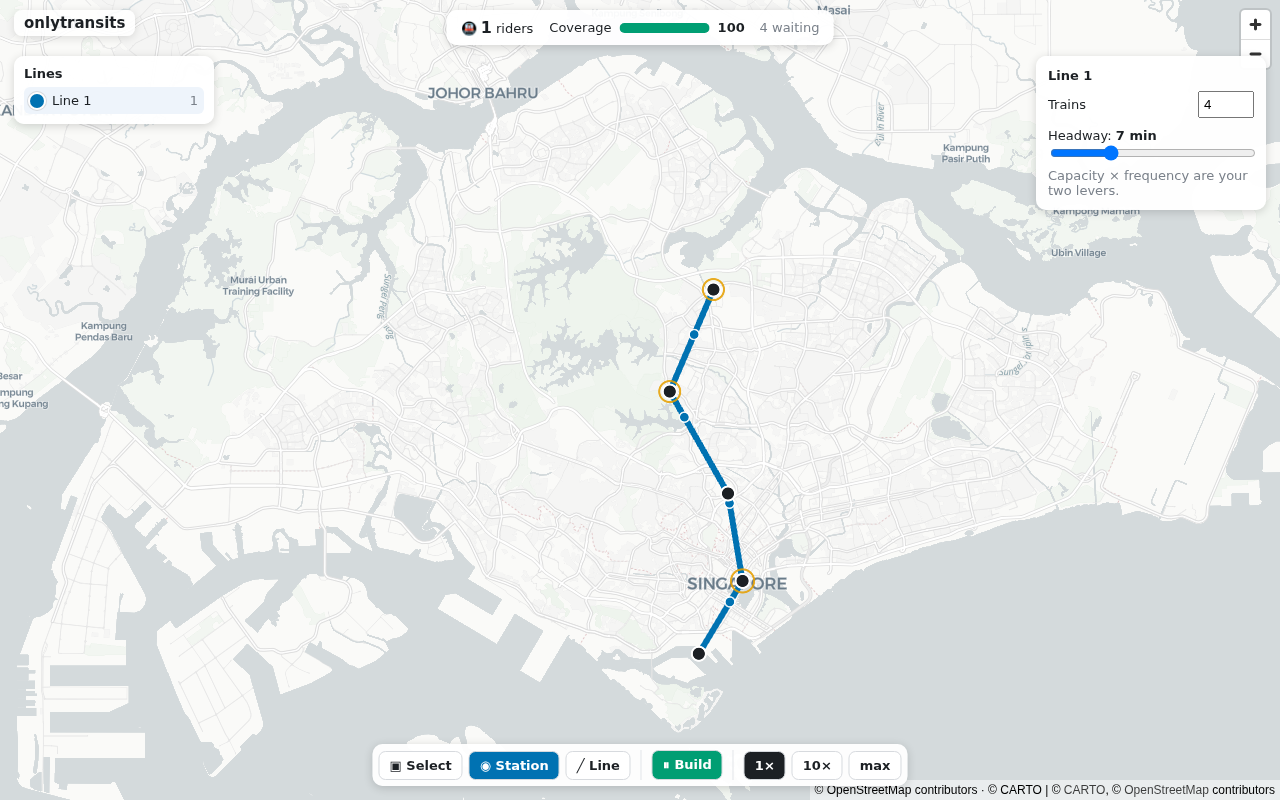
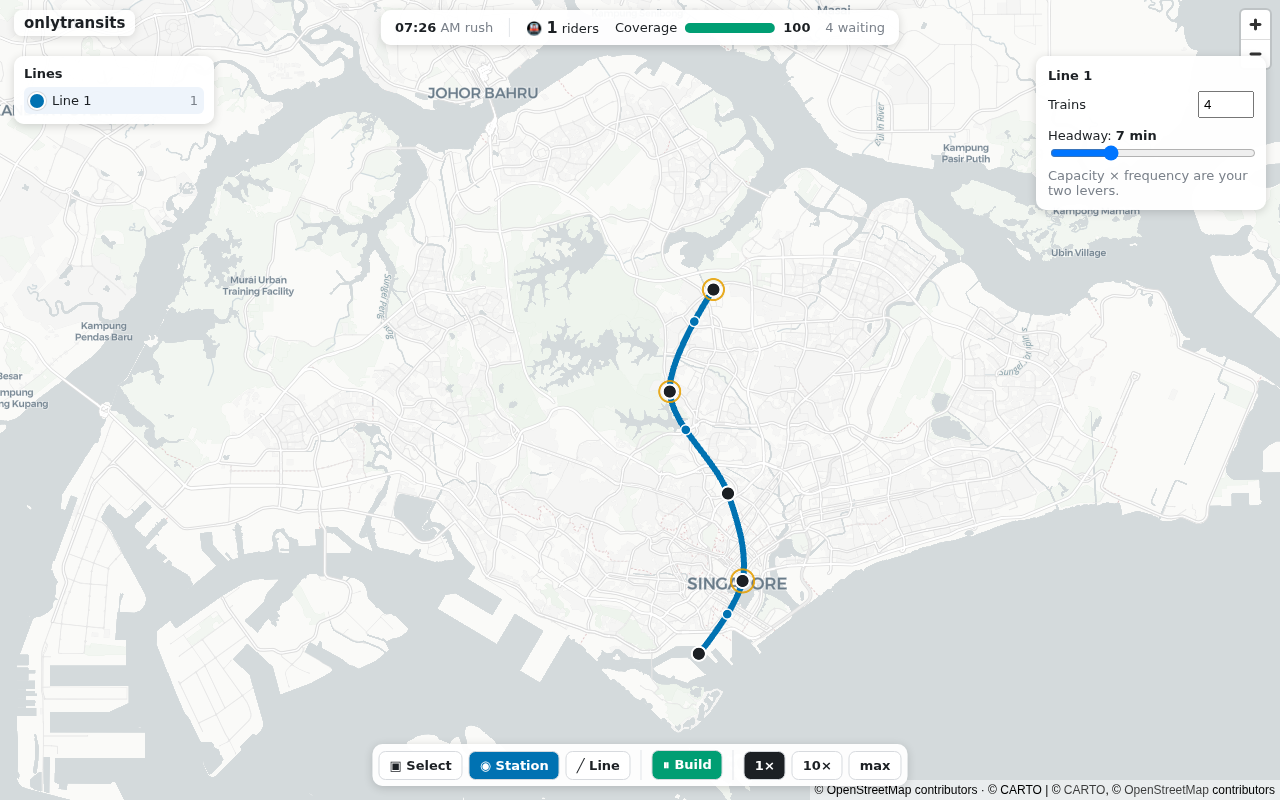
feat(sim): time-of-day demand sim + clock HUD (F2)
- tod.rs: in-game 24h clock (1 sim-min = 1 hour, opens 06:00), twin-peak rush demand
  multiplier (~0.1 night .. ~1.8 peak), and AM(home->work)/PM(work->home) work_bias.
- demand.spawn modulates volume by the multiplier and flips trip origin + destination
  attractiveness by time of day (AM toward jobs, PM toward homes). Deterministic (pure fn of clock).
- stats expose simHour/period/demandMultiplier; statsbar shows a live HH:MM + period.
- tests/tod.rs (rush>offpeak, AM work-bound/PM home-bound, clock wrap). cargo 17/17, vitest 10/10.
- Fixed polyline-length assertions outdated by F1's dense curve.

diff --git a/packages/app/src/ui/statsbar.ts b/packages/app/src/ui/statsbar.ts
@@ -17,6 +17,9 @@ export function mountStatsBar(host: HTMLElement): StatsBar {
     "box-shadow:var(--ot-shadow);z-index:9;font:13px system-ui,sans-serif;color:#1c2024";
 
   bar.innerHTML =
+    `<div><b data-testid="clock" style="font-variant-numeric:tabular-nums">06:00</b> ` +
+    `<span data-testid="period" style="color:#7a818a">AM rush</span></div>` +
+    `<div style="width:1px;align-self:stretch;background:#e2e5e9"></div>` +
     `<div>🚇 <b data-testid="ridership" style="font-size:16px">0</b> riders</div>` +
     `<div style="display:flex;align-items:center;gap:8px">Coverage` +
     `<div style="position:relative;width:90px;height:10px;background:#e7eaee;border-radius:6px;overflow:hidden">` +
@@ -26,6 +29,8 @@ export function mountStatsBar(host: HTMLElement): StatsBar {
 
   host.appendChild(bar);
 
+  const clock = bar.querySelector<HTMLElement>('[data-testid="clock"]')!;
+  const period = bar.querySelector<HTMLElement>('[data-testid="period"]')!;
   const ridership = bar.querySelector<HTMLElement>('[data-testid="ridership"]')!;
   const coverage = bar.querySelector<HTMLElement>('[data-testid="coverage"]')!;
   const coverageBar = bar.querySelector<HTMLElement>('[data-testid="coverage-bar"]')!;
@@ -34,9 +39,19 @@ export function mountStatsBar(host: HTMLElement): StatsBar {
   let lastRidership = -1;
   let lastCoverage = -1;
   let lastWaiting = -1;
+  let lastClock = "";
 
   return {
     update(s: Stats): void {
+      const hh = Math.floor(s.simHour);
+      const mm = Math.floor((s.simHour - hh) * 60);
+      const t = `${String(hh).padStart(2, "0")}:${String(mm).padStart(2, "0")}`;
+      if (t !== lastClock) {
+        clock.textContent = t;
+        period.textContent = s.period;
+        lastClock = t;
+      }
+
       const r = Math.round(s.ridershipTotal);
       if (r !== lastRidership) {
         ridership.textContent = String(r);

diff --git a/packages/app/e2e/build-tools.spec.ts b/packages/app/e2e/build-tools.spec.ts
@@ -22,7 +22,7 @@ test("place stations and draw a line through them", async ({ page }) => {
   const lines = await page.evaluate(() => window.__ot!.bridge.linesView());
   expect(lines).toHaveLength(1);
   expect(lines[0].stops).toEqual([0, 1, 2]);
-  expect(lines[0].polylineMm.length).toBe(3); // geometry rebuilt on AddStop
+  expect(lines[0].polylineMm.length).toBeGreaterThan(3); // dense smoothed curve (F1)
 
   await page.screenshot({ path: "../../docs/progress/cp5-stations-and-line.png" });
 });

diff --git a/packages/app/test/sim.test.ts b/packages/app/test/sim.test.ts
@@ -34,7 +34,8 @@ describe("SimBridge (wasm-in-node)", () => {
     const lines = b.linesView();
     expect(lines).toHaveLength(1);
     expect(lines[0].stops).toEqual([0, 1, 2]);
-    expect(lines[0].polylineMm).toHaveLength(3); // geometry rebuilt on AddStop
+    // Curved track (F1): the polyline is a dense smoothed curve, denser than the 3 stops.
+    expect(lines[0].polylineMm.length).toBeGreaterThan(3);
 
     const stats = b.stats();
     expect(stats.stationCount).toBe(3);

diff --git a/packages/app/src/types.ts b/packages/app/src/types.ts
@@ -46,6 +46,9 @@ export interface Stats {
   leftBehind: number;
   avgLoadFactor: number;
   coverageScore: number;
+  simHour: number;
+  period: string;
+  demandMultiplier: number;
   perStation: PerStation[];
   perLine: PerLine[];
 }

diff --git a/packages/app/src/game.ts b/packages/app/src/game.ts
@@ -22,6 +22,9 @@ const EMPTY_STATS: Stats = {
   leftBehind: 0,
   avgLoadFactor: 0,
   coverageScore: 0,
+  simHour: 6,
+  period: "AM rush",
+  demandMultiplier: 1,
   perStation: [],
   perLine: [],
 };

diff --git a/crates/sim/src/demand.rs b/crates/sim/src/demand.rs
@@ -71,6 +71,11 @@ pub(crate) fn spawn(world: &mut World, dt_ms: i64) {
     if n == 0 {
         return;
     }
+    // Time-of-day modulation: overall volume + AM(home→work)/PM(work→home) directionality.
+    let hour = crate::tod::hour_of_day(world.clock_ms);
+    let mult = crate::tod::demand_multiplier(hour);
+    let bias = crate::tod::work_bias(hour);
+
     let World {
         ref stations,
         ref lines,
@@ -83,8 +88,11 @@ pub(crate) fn spawn(world: &mut World, dt_ms: i64) {
     } = *world;
 
     for s in 0..n {
+        // Trip origins: AM weights residential (captured_origin), PM weights jobs (captured_dest).
         let co = captured_origin.get(s).copied().unwrap_or(0.0);
-        if co <= 0.0 {
+        let cd = captured_dest.get(s).copied().unwrap_or(0.0);
+        let origin_strength = bias * co + (1.0 - bias) * cd;
+        if origin_strength <= 0.0 {
             continue;
         }
         // A line serving this station (has a trainset, >=2 stops).
@@ -95,10 +103,10 @@ pub(crate) fn spawn(world: &mut World, dt_ms: i64) {
             continue;
         };
 
-        spawn_accum[s] += co * DEMAND_RATE_PER_MS * dt_ms as f32;
+        spawn_accum[s] += origin_strength * DEMAND_RATE_PER_MS * mult * dt_ms as f32;
         while spawn_accum[s] >= 1.0 {
             spawn_accum[s] -= 1.0;
-            if let Some(dest) = pick_dest(stations, &lines[li], s, captured_dest, rng) {
+            if let Some(dest) = pick_dest(stations, &lines[li], s, captured_origin, captured_dest, bias, rng) {
                 waiting[s].push_back(dest);
             }
         }
@@ -107,11 +115,14 @@ pub(crate) fn spawn(world: &mut World, dt_ms: i64) {
 
 /// Gravity destination pick: among the other stops on the line, weighted by destination
 /// coverage × distance-decay. Integer weighted draw from a seeded RNG (deterministic).
+#[allow(clippy::too_many_arguments)]
 fn pick_dest(
     stations: &[Station],
     line: &Line,
     origin: usize,
+    captured_origin: &[f32],
     captured_dest: &[f32],
+    bias: f32,
     rng: &mut ChaCha8Rng,
 ) -> Option<StationId> {
     let opos = stations[origin].pos;
@@ -122,9 +133,12 @@ fn pick_dest(
             continue;
         }
         let d = opos.dist_mm(&stations[st.index()].pos).max(1) as f64;
-        let cd = captured_dest.get(st.index()).copied().unwrap_or(0.0) as f64;
+        // AM: pulled toward jobs (captured_dest); PM: toward homes (captured_origin).
+        let cd = captured_dest.get(st.index()).copied().unwrap_or(0.0);
+        let cor = captured_origin.get(st.index()).copied().unwrap_or(0.0);
+        let attract = (bias * cd + (1.0 - bias) * cor) as f64;
         let decay = 1.0 / (1.0 + d / DEST_DECAY_MM);
-        let w = (cd * decay * 1000.0) as u64 + 1; // +1 baseline so any stop can be chosen
+        let w = (attract * decay * 1000.0) as u64 + 1; // +1 baseline so any stop can be chosen
         total += w;
         cands.push((st, w));
     }

diff --git a/crates/sim/src/tod.rs b/crates/sim/src/tod.rs
@@ -1,0 +1,48 @@
+//! Time-of-day demand modulation. The sim clock maps to an in-game 24h clock; demand volume
+//! follows a twin-peak rush profile and trips flip direction AM (home→work) vs PM (work→home).
+//! Pure functions of the integer clock — deterministic. (Render/demand floats only.)
+
+/// One in-game hour = this many sim-ms (1 sim-minute). A full day = 24 sim-minutes.
+pub const HOUR_MS: i64 = 60_000;
+/// The day starts at this hour (so a fresh run opens into the morning ramp).
+const START_HOUR: f64 = 6.0;
+
+/// Hour of day in [0, 24) for a given sim clock.
+pub fn hour_of_day(clock_ms: i64) -> f64 {
+    let h = START_HOUR + clock_ms as f64 / HOUR_MS as f64;
+    h.rem_euclid(24.0)
+}
+
+fn gaussian(x: f64, mu: f64, sigma: f64) -> f64 {
+    let z = (x - mu) / sigma;
+    (-0.5 * z * z).exp()
+}
+
+/// Overall demand multiplier (~0.1 night … ~1.8 at the rush peaks).
+pub fn demand_multiplier(hour: f64) -> f32 {
+    let day = if (7.0..=20.0).contains(&hour) { 0.5 } else { 0.2 };
+    let am = 1.3 * gaussian(hour, 8.0, 1.3);
+    let pm = 1.2 * gaussian(hour, 18.0, 1.4);
+    ((day + am + pm) as f32).clamp(0.1, 2.0)
+}
+
+/// Trip directionality in [0,1]: 1 = fully home→work (AM), 0 = fully work→home (PM), ~0.5 mid.
+pub fn work_bias(hour: f64) -> f32 {
+    let am = gaussian(hour, 8.0, 2.0);
+    let pm = gaussian(hour, 18.0, 2.0);
+    (0.5 + 0.5 * am - 0.5 * pm).clamp(0.0, 1.0) as f32
+}
+
+pub fn period_label(hour: f64) -> &'static str {
+    if !(5.0..23.0).contains(&hour) {
+        "Night"
+    } else if hour < 9.0 {
+        "AM rush"
+    } else if hour < 16.0 {
+        "Daytime"
+    } else if hour < 19.0 {
+        "PM rush"
+    } else {
+        "Evening"
+    }
+}

diff --git a/crates/sim/tests/tod.rs b/crates/sim/tests/tod.rs
@@ -1,0 +1,23 @@
+//! Time-of-day profile: rush peaks exceed off-peak; AM trips are work-bound, PM home-bound.
+use sim::tod::*;
+
+#[test]
+fn rush_peaks_exceed_offpeak() {
+    assert!(demand_multiplier(8.0) > demand_multiplier(3.0), "AM rush > night");
+    assert!(demand_multiplier(18.0) > demand_multiplier(12.0), "PM rush > midday");
+    assert!(demand_multiplier(3.0) < 0.4, "night is quiet");
+}
+
+#[test]
+fn am_work_bound_pm_home_bound() {
+    assert!(work_bias(8.0) > 0.8, "morning is home->work");
+    assert!(work_bias(18.0) < 0.2, "evening is work->home");
+    let mid = work_bias(12.5);
+    assert!(mid > 0.3 && mid < 0.7, "midday is mixed");
+}
+
+#[test]
+fn clock_offsets_and_wraps() {
+    assert!((hour_of_day(0) - 6.0).abs() < 1e-9, "day opens at 06:00");
+    assert!((hour_of_day(HOUR_MS * 20) - 2.0).abs() < 1e-6, "26:00 wraps to 02:00");
+}

diff --git a/crates/sim/src/world.rs b/crates/sim/src/world.rs
@@ -187,6 +187,9 @@ impl World {
             left_behind: waiting_total as f64,
             avg_load_factor,
             coverage_score: self.coverage_score(),
+            sim_hour: crate::tod::hour_of_day(self.clock_ms),
+            period: crate::tod::period_label(crate::tod::hour_of_day(self.clock_ms)).to_string(),
+            demand_multiplier: crate::tod::demand_multiplier(crate::tod::hour_of_day(self.clock_ms)) as f64,
             per_station,
             per_line,
         }

diff --git a/crates/sim/src/stats.rs b/crates/sim/src/stats.rs
@@ -16,6 +16,10 @@ pub struct StatsSnapshot {
     pub left_behind: f64,
     pub avg_load_factor: f32,
     pub coverage_score: u8,
+    /// Time-of-day: in-game hour [0,24), period label, and the current demand multiplier.
+    pub sim_hour: f64,
+    pub period: String,
+    pub demand_multiplier: f64,
     pub per_station: Vec<StationStat>,
     pub per_line: Vec<LineStat>,
 }

diff --git a/crates/sim/src/lib.rs b/crates/sim/src/lib.rs
@@ -19,6 +19,7 @@ pub mod render_buf;
 pub mod station;
 pub mod stats;
 mod tick;
+pub mod tod;
 pub mod trainset;
 pub mod vehicle;
 pub mod world;
